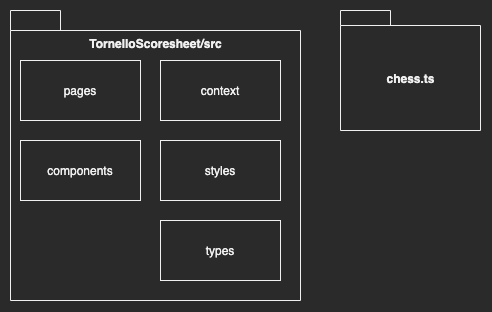
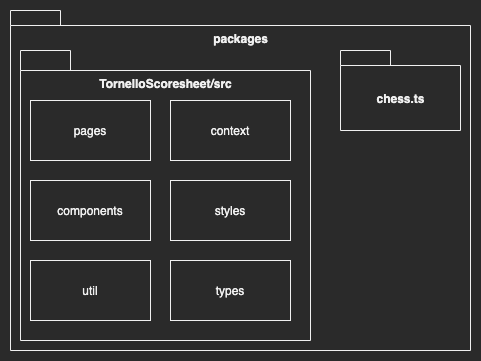
System Diagram - Added description to model diagram in DesignDocumentation.md

diff --git a/documentation/DesignDocumentation.md b/documentation/DesignDocumentation.md
@@ -6,24 +6,48 @@ The two main forms of design that are most relevant to the Tornelo Scoresheet ap
 
 **System Architecture**
 
-The System Architecture includes the way the model, the way the program is structured and the programming languages and tools used. 
+The System Architecture includes the way the model, the way the program is structured and the programming languages and tools used.
 
-Key areas of this aspect of the system design and rationale behind relevant design choices are documented in Section 1 of this document. 
+Key areas of this aspect of the system design and rationale behind relevant design choices are documented in Section 1 of this document.
 
 **User Interface (UI) Design**
 
-The User Interface Design is a holistic approach to deciding how the applications functional elements are displayed on the screen. This includes considering the users and their experiences, as well as the necessary features and functional requirements. 
+The User Interface Design is a holistic approach to deciding how the applications functional elements are displayed on the screen. This includes considering the users and their experiences, as well as the necessary features and functional requirements.
 
-Key areas of this aspect of the system design and rationale behind relevant design choices are documented in Section 1 of this document. 
+Key areas of this aspect of the system design and rationale behind relevant design choices are documented in Section 1 of this document.
 
 ## 1 System Architecture
-TODO
 
-### 1.1 Class Diagram and Model
-TODO
+### 1.1 Architecture/Model Diagram
+![architecture_diagram](Pictures/system_design-dependency_structure.png)
 
-### 1.2 Folder Structure
-TODO
+The project's architecture is broken down to 6 parts:
+1. Pages
+    * Serves a distinct user function, as described in section 2 - Wireframes
+    * Contains components
+2. Components
+    * Parts of a page
+    * Can contain other components
+3. Context
+    * Allows information to be transferred from one page to another without dependency pollution.
+    * e.g. if a component dependency chain looks like this: `A->B->C->D->E`, `A` and `E` can share data without going through `B,C,D`
+4. Types
+    * Local Typescript types, interfaces, templates and the like.
+    * Avoids cluttering other packages.
+5. Utils
+    * General utilities such as parsing, string formatters, etc.
+6. Styles
+    * Stylesheet files
+7. External packages
+    * Any external packages are imported in each file as-is.
+
+#### Folder Structure
+![folder_structure](Pictures/system_design-folder_structure.png)
+
+
+#### Example
+
+![example_architecture](Pictures/system_design-example_dependency.png)
 
 ### 1.3 Choice of Software
 
@@ -44,7 +68,7 @@ TODO
     - Team is familiar with react
     - Ability to use Typescript, which the team has used extensively in the past
     - Live reloading
-  - Disadvantages 
+  - Disadvantages
     - Difficult to debug
 - Due to the team's familiarity with React, React native is an obvious choice for our app
 
@@ -52,168 +76,168 @@ TODO
 - Flutter is a cross platform app development framework by Google written in Dart.
   - Advantages
     - Growing popularity
-    - Strong community 
-  - Disadvantages 
+    - Strong community
+  - Disadvantages
     - Team is unfamiliar with Dart language
     - Limited tools and libraries
     - Large file sizes and slow build times
-- Given the team is unfamiliar with the Dart language, Flutter is not the best solution however it remains as a strong candidate 
+- Given the team is unfamiliar with the Dart language, Flutter is not the best solution however it remains as a strong candidate
 
 #### Xamarin
 - Xanarin is a Microsoft framework for developping cross plarform apps, it is compatible with windows and is written in C#.
   - Advantages
     - Cross platform development
-    - Many free packages available  
-  - Disadvantages 
+    - Many free packages available
+  - Disadvantages
     - Poor tooling availability in mac environments
-    - Team is unfamiliar with C# 
+    - Team is unfamiliar with C#
     - Proprietary
 - Due to some of the team's unfamiliarity with C# and the poor tooling available on macs, we will not opt for a Xamarin solution
 
 ### 1.4 Library Usage
-The use of libraries is recommended for this project, and approved by the Product Owner. 
+The use of libraries is recommended for this project, and approved by the Product Owner.
 
 **Justification**
 
-The main benefit of using existing code libraries is to save time on the project. A big priority is to get the application approved by the International Chess Federation (FIDA) as soon as possible, so saving time is a priority. 
+The main benefit of using existing code libraries is to save time on the project. A big priority is to get the application approved by the International Chess Federation (FIDA) as soon as possible, so saving time is a priority.
 
-Furthermore, existing solutions in many cases might be more optimised than we could make from scratch with current resources. For example, there is no need to reinvent the wheel and code a chess engine when hundreds of such libraries are freely available, and are likely more optimised 
+Furthermore, existing solutions in many cases might be more optimised than we could make from scratch with current resources. For example, there is no need to reinvent the wheel and code a chess engine when hundreds of such libraries are freely available, and are likely more optimised
 
-Therefore, the use and adaptation of libraries is strongly encouraged where possible. 
+Therefore, the use and adaptation of libraries is strongly encouraged where possible.
 
 **Libraries Used**
 
-Currently, the following libraries have been investigated and are being used as part of the system architecture: 
+Currently, the following libraries have been investigated and are being used as part of the system architecture:
 
 - **chess.ts**: A chess library and rewrite of chess.js in Typescript that is used for chess move generation/validation, piece placement/movement, and check/checkmate/stalemate detection.
 
-## 2 User Interface (UI) Design 
-The Tornelo Scoresheet iOS app is primarily a front-end solution for recording chess game data. Due to this, the User Interface (UI) and the User Experience (UX) for this app is extremely important. 
+## 2 User Interface (UI) Design
+The Tornelo Scoresheet iOS app is primarily a front-end solution for recording chess game data. Due to this, the User Interface (UI) and the User Experience (UX) for this app is extremely important.
 
 ### 2.1 UI/UX Design Methodology
-The following methodology is used to develop the user Interface design for this project in a holistic way to ensure a rigorous, functional and usable design. 
+The following methodology is used to develop the user Interface design for this project in a holistic way to ensure a rigorous, functional and usable design.
 
 **Understand the target users, their needs and usability requirements.**
-- The target users need to be kept front of mind to understand the kind of user interface and user experience that needs to be designed. 
+- The target users need to be kept front of mind to understand the kind of user interface and user experience that needs to be designed.
 - The users are explored in Section 2.2, as well as the usability implications.
 
 **Consider the scope and necessary features.**
-- The functionality of the app is brainstormed during the UI Design process, to ensure the product can perform all of the necessary functions. 
-- The key features that need to be included in the design are detailed in Section 2.3. 
+- The functionality of the app is brainstormed during the UI Design process, to ensure the product can perform all of the necessary functions.
+- The key features that need to be included in the design are detailed in Section 2.3.
 
 **Establish the functional requirements and limitations.**
-- There are a range of fine-grain functional requirements that impact the user interface. 
-- In particular, a heavy proportion of the UI is dictated by the International Chess Federation (FIDE) rules and regulations for digital scoresheets. 
+- There are a range of fine-grain functional requirements that impact the user interface.
+- In particular, a heavy proportion of the UI is dictated by the International Chess Federation (FIDE) rules and regulations for digital scoresheets.
 - Other requirements are also added by the Product Owner.
 - Key requirements which impact the interface design are summarised in Section 2.4.
 
 **Iterate on wireframes with incremental feedback.**
 - After properly understanding the users, features and requirements, the wireframes are designed using the tool Figma.
 - The designs are iterated with the product owner’s feedback until all design requirements are fulfilled.
-- The current wireframes and the justifications for various design decisions are detailed in Section 2.5. 
+- The current wireframes and the justifications for various design decisions are detailed in Section 2.5.
 
-It’s essential to note that the user interface design process is iterative. Understanding of the user personas, features and requirements are developed and clarified in feedback cycles with the Product Owner and other resources. 
+It’s essential to note that the user interface design process is iterative. Understanding of the user personas, features and requirements are developed and clarified in feedback cycles with the Product Owner and other resources.
 
-Furthermore, the wireframes are designed together as a team in iterations. This involves meeting with the Product Owner to review the design and gather feedback before improving the design further. 
+Furthermore, the wireframes are designed together as a team in iterations. This involves meeting with the Product Owner to review the design and gather feedback before improving the design further.
 
-This iterative process ensures that no requirements are missed or forgotten, and leads to an optimal design that meets everyone's needs. 
+This iterative process ensures that no requirements are missed or forgotten, and leads to an optimal design that meets everyone's needs.
 
 ### 2.2 User Experience
-In order to develop a good UI design with a positive User Experience, it’s essential to consider the target user personas, and their usability requirements. 
+In order to develop a good UI design with a positive User Experience, it’s essential to consider the target user personas, and their usability requirements.
 
-There are two key users for the Tornelo Scoresheet app - a tournament Arbiter and a Player. 
+There are two key users for the Tornelo Scoresheet app - a tournament Arbiter and a Player.
 
 #### User Persona: The Arbiter
 ###### Who are they?
 
 The arbiter is an adult that is the organiser of the tournament, responsible for managing and scoring the chess games. They are likely very busy due to keeping a lot of moving parts in the competition under control, with lots of people and games to take care of at a time.
- 
+
 ######  What are their main goals?
 - Ensure tables & boards are set up and ready at each stage of a tournament.
 - Make sure tournament pairings are completed & correct
 - Serve the needs/wants of players
 
 ######  What are their main concerns?
-- Ensuring that the players aren’t using the iPads for cheating 
+- Ensuring that the players aren’t using the iPads for cheating
 
 #### User Persona: The Player
 ######  Who are they?
 
-The player is a person participating in the chess tournament. They could be any age, ranging from a young kid to a much older person who is less familiar with technology. The player might be stressed or anxious due to being involved in a competition with real stakes, and want to be able to focus on the chess game to ensure they perform as well as they can. 
+The player is a person participating in the chess tournament. They could be any age, ranging from a young kid to a much older person who is less familiar with technology. The player might be stressed or anxious due to being involved in a competition with real stakes, and want to be able to focus on the chess game to ensure they perform as well as they can.
 
 ###### What are their main goals?
-- To be able to easily record their moves while remaining focused on the game. 
-- Be confident that the opponent isn’t cheating. 
+- To be able to easily record their moves while remaining focused on the game.
+- Be confident that the opponent isn’t cheating.
 
 ###### What are their main concerns?
-- That entering the chess moves via iPad is unfamiliar, difficult and as a result time consuming and distracting. 
+- That entering the chess moves via iPad is unfamiliar, difficult and as a result time consuming and distracting.
 
-#### Usability Requirements 
-With these user personas in mind, the following set of usability requirements follow. The design needed to abide by these guidelines  to ensure a positive user experience. The UI must: 
-- Be clear and easy to navigate, even for someone young or less familiar with technology, 
-- Be intuitive, so that users are able to perform tasks in a minimal amount of time, 
+#### Usability Requirements
+With these user personas in mind, the following set of usability requirements follow. The design needed to abide by these guidelines  to ensure a positive user experience. The UI must:
+- Be clear and easy to navigate, even for someone young or less familiar with technology,
+- Be intuitive, so that users are able to perform tasks in a minimal amount of time,
 - Cater to visually impaired users so as to not disadvantage them during a tournament,
-- Have large and well-labelled UI elements and buttons that are easy to find, understand the purpose of, and use. 
+- Have large and well-labelled UI elements and buttons that are easy to find, understand the purpose of, and use.
 
-### 2.3 Scope and Features 
-The high-level features of the Tornelo Scoresheet app are listed in the table below. They form the basis of the purpose and functionality of the app, and hence play a large role in the UI Design process. 
+### 2.3 Scope and Features
+The high-level features of the Tornelo Scoresheet app are listed in the table below. They form the basis of the purpose and functionality of the app, and hence play a large role in the UI Design process.
 
 | Feature | Justification |
-| ---- | ---- | 
+| ---- | ---- |
 | Enter a live broadcast PGN link in Arbiter mode. | The app requires access to game data on Tornelo server for the tournament Arbiter to set up the game data collection. At MVP level, this is simply done via a manually-entered PGN Broadcast link. (In future iterations this feature will be superseded by directly fetching data from Tornelo server using websockets). |
 | Enter Table Pairing Mode and select a board from available games in the round. | During the set up of a tournament, each device would get assigned to a separate table. The Table Pairing Mode is a way for the tournament Arbiter to choose to which game each device is assigned. |
 | Enter Game Mode, where certain actions are blocked. | Due to strict requirements of FIDE, for the app to be approved for use in official chess tournaments, the Game Mode needs to prevent the user from taking actions (like leaving the app, going out of Game Mode, etc) |
-| Enter moves, times and actions during Game Mode. | The chess player should be able to use the app to record their chess moves, for both players, according to the owner specifications. This is a key feature of the app (as a replacement to paper scoresheets). 
+| Enter moves, times and actions during Game Mode. | The chess player should be able to use the app to record their chess moves, for both players, according to the owner specifications. This is a key feature of the app (as a replacement to paper scoresheets).
 | Review and edit previous moves during Game Mode. | In case the player has entered a mistake, they are able to go back into their previously entered moves and update them. |
 | End Game Mode and review the results. | The Arbiter and Player should be able to review their submission. (Post-MVP, the Ariber should also be able to perform scoresheet reconciliation tasks to corroborate the two chess player’s recorded moves). |
 
 ### 2.4 Functional Requirements
-In addition to the high-level features of the app, it’s essential to consider a range of more fine-grained requirements which dictate certain aspects of the user interface. 
+In addition to the high-level features of the app, it’s essential to consider a range of more fine-grained requirements which dictate certain aspects of the user interface.
 
-Since the Tornelo Scoresheet app is intended for use in official chess competitions, the majority of these functional requirements are set by the International Chess Federation (FIDE). FIDE provides a requirement document (Electronic Scoresheet standards: https://handbook.fide.com/files/handbook/C02Standards.pdf) which outlines the functions that an application needs to meet in order to be approved for use. The key requirements which impact the user interface design are summarised here. 
+Since the Tornelo Scoresheet app is intended for use in official chess competitions, the majority of these functional requirements are set by the International Chess Federation (FIDE). FIDE provides a requirement document (Electronic Scoresheet standards: https://handbook.fide.com/files/handbook/C02Standards.pdf) which outlines the functions that an application needs to meet in order to be approved for use. The key requirements which impact the user interface design are summarised here.
 
 **Key FIDE Requirements**
 - During Game Mode, it is not possible to switch to any other mode (on purpose or by accident), unless authorised by Arbiter. Only the arbiter iis allowed to enter Arbiter mode during a game.
-- The current mode / state of the app (ie. Arbiter Mode, Table Pairing Mode, Game Mode) are really clearly visible to anyone who can see the screen. 
-- The game notation is clearly visible for the arbiter, with a minimum of 7 moves always visible on the screen at any time. 
-- A game finishes when a result is noted and both players sign the score sheet. 
+- The current mode / state of the app (ie. Arbiter Mode, Table Pairing Mode, Game Mode) are really clearly visible to anyone who can see the screen.
+- The game notation is clearly visible for the arbiter, with a minimum of 7 moves always visible on the screen at any time.
+- A game finishes when a result is noted and both players sign the score sheet.
 - The device must be able to restart the notation.
 - It must be possible to enter: illegal moves (including playing past checkmate), enter clock times, draw offers, and to enter a dash instead of a move.
-- An automatic move counter should be available. 
+- An automatic move counter should be available.
 - It is not allowed to correct or signalling illegal moves automatically.
 - If the battery has low power this must be clearly signalled.
 
-In addition to these requirements, the following requirements are also agreed upon with the Product Owner which will impact the User Interface Design. 
+In addition to these requirements, the following requirements are also agreed upon with the Product Owner which will impact the User Interface Design.
 
 **Additional Product Owner requirements**
 - The device used will be an iOS iPad Mini (height of 195.4 mm, width of 134.8 mm).
-- The app should not be used in landscape mode (due to space limitations at chess tournament venus). 
+- The app should not be used in landscape mode (due to space limitations at chess tournament venus).
 - Users should have the option to enter moves in two ways. It should be easy to switch between these two move entry methods. The methods are:
--- By using a chess board view by moving figurines, or 
+-- By using a chess board view by moving figurines, or
 -- By using a digital scoresheet notation.
-- Chess terminology needs to be used throughout the app correctly, including full algebraic chess notation for displaying the move list (which can be quite a lot of characters per move). 
-- The Tornelo branding needs to be used throughout the app, including the brand colours, logos and figuring icons. 
+- Chess terminology needs to be used throughout the app correctly, including full algebraic chess notation for displaying the move list (which can be quite a lot of characters per move).
+- The Tornelo branding needs to be used throughout the app, including the brand colours, logos and figuring icons.
 
-These requirements create a lot of constraints on the application UI design. A major part of the design process involves ensuring all of the functional requirements are fulfilled, while still considering the functionality and user experience. 
+These requirements create a lot of constraints on the application UI design. A major part of the design process involves ensuring all of the functional requirements are fulfilled, while still considering the functionality and user experience.
 
-### 2.5 Wireframes 
-The wireframes are designed using the tool Figma (www.figma.com) as recommended by the Product Owner. 
+### 2.5 Wireframes
+The wireframes are designed using the tool Figma (www.figma.com) as recommended by the Product Owner.
 
-The full design can be located at: https://www.figma.com/file/MSItAKHLGvKxveIIRSh1tp/Tornelo-Scoresheet?node-id=0%3A1 
+The full design can be located at: https://www.figma.com/file/MSItAKHLGvKxveIIRSh1tp/Tornelo-Scoresheet?node-id=0%3A1
 
 According to the features and functional requirements, the application is broken down into the following 7 pages:
 - **Landing Page**: The landing page is the first page the user sees when they open the application.
-- **Arbiter Mode: PGN Entry**: On this page, the Arbiter enters the PGN Broadcast link to fetch the relevant game matching data from the Tornelo server. 
-- **Arbiter Mode: Board Selection**: In this page, the Arbiter selects the match that will be recorded on this device. 
-- **Table Pairing Mode**: This page is displayed after the device is assigned to the table. It displays the players who will be playing at this board, and is used by players to locate their table, and potentially also for the audience to familiarise themselves with who is playing. 
-- **Game Mode: Graphic Recording**: In this mode, the user will enter moves and times using the graphical chess interface. 
-- **Game Mode: Textual Recording**: In this mode, the user will enter moves and times using the textual interface. 
-- **Results Screen**: This is the screen that displays the results after a game is completed. 
+- **Arbiter Mode: PGN Entry**: On this page, the Arbiter enters the PGN Broadcast link to fetch the relevant game matching data from the Tornelo server.
+- **Arbiter Mode: Board Selection**: In this page, the Arbiter selects the match that will be recorded on this device.
+- **Table Pairing Mode**: This page is displayed after the device is assigned to the table. It displays the players who will be playing at this board, and is used by players to locate their table, and potentially also for the audience to familiarise themselves with who is playing.
+- **Game Mode: Graphic Recording**: In this mode, the user will enter moves and times using the graphical chess interface.
+- **Game Mode: Textual Recording**: In this mode, the user will enter moves and times using the textual interface.
+- **Results Screen**: This is the screen that displays the results after a game is completed.
 
-The current UI design and rationale for key design decisions for each page are as follows. 
+The current UI design and rationale for key design decisions for each page are as follows.
 
 | Current Design | Design Rationale |
-| ----- | ----- | 
+| ----- | ----- |
 | ![landing_page](Pictures/landing_page_v1.PNG)| <center><strong>Landing Page</strong></center><br><ul><li>Arbiter mode is clearly signified with the blue banner, and Tornelo branding is visible. </li><li>A scrollable list is available (scroll bar necessary for easy navigation as there can be hundreds of boards listed). </li><li>The text is large and accessible for the Arbiter to quickly read.</li><li>The board cells are large and easily selectable, with a large surface area to tap on for increased usability. </li><li>The names for players with long names will be truncated to fit onto the cell. </li></ul> |
 | ![pgn_entry_page](Pictures/Arbiter_Mode_PGN_Entry_v1.PNG)  | <center><strong>Arbiter Mode: PGN Entry</strong></center><br><ul><li>The Blue banner at the top of the screen signifies Arbiter Mode (as required by the functional requirements - the app mode should be easily visible). </li><li>The Arbiter will use this mode, so the design is simple, minimalistic and has clear instructions to accommodate a busy arbiter with lots of devices to set up.</li><li>Tornello branding and colours are used.</li></ul> |
 | ![board_select_page](Pictures/Arbiter_Mode_Board_Selection_v1.PNG)  | <center><strong>Arbiter Mode: Board Selection</strong></center><br><ul><li>Arbiter mode is clearly signified with the blue banner, and Tornelo branding is visible.</li><li>A scrollable list is available (scroll bar necessary for easy navigation as there can be hundreds of boards listed). </li><li>The text is large and accessible for the Arbiter to quickly read. </li><li>The board cells are large and easily selectable, with a large surface area to tap on for increased usability. </li><li>The names for players with long names will be truncated to fit onto the cell.</li></ul> |
